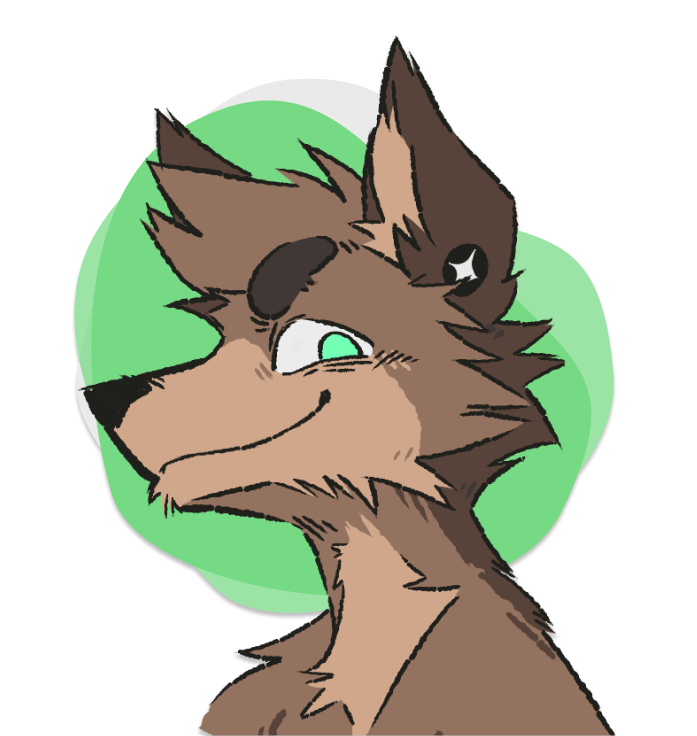
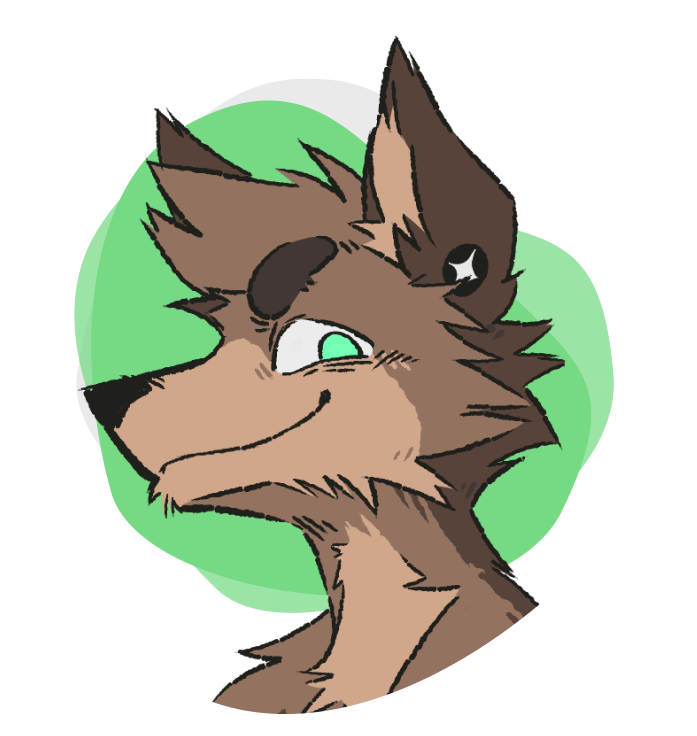
edited image mask

diff --git a/index.html b/index.html
@@ -15,7 +15,7 @@
         <meta property="og:description" content="coyotes.dev" />
         <meta name="viewport" content="width=device-width, initial-scale=1">
     </head>
-    
+
     <body>
         <div class="header">
             <h1 class="hoverThis">coyotes<span class="accent">.dev</span></h1>
@@ -46,14 +46,14 @@
             <div class="contacts">
                 <div class="entry">
                     <img src="img/mailicon.svg">
-                    <a href="mailto: taboler@coyotes.dev"><h2>taboler@coyotes.dev</h2></a>
+                    <a href="mailto: taboler@coyotes.dev"><h2 class="hoverThis">taboler@coyotes.dev</h2></a>
                 </div>
                 <div class="entry">
-                    <img src="img/linkedin.svg"><a href="https://www.linkedin.com/in/taboler/"><h2>linkedin.com/taboler</h2></a>
+                    <img src="img/linkedin.svg"><a href="https://www.linkedin.com/in/taboler/"><h2 class="hoverThis">linkedin.com/taboler</h2></a>
                 </div>
                 <div class="entry">
                     <img src="img/github.svg">
-                    <a href="https://github.com/lastCoyotes"><h2>lastCoyotes</h2></a>
+                    <a href="https://github.com/lastCoyotes"><h2 class="hoverThis">lastCoyotes</h2></a>
                 </div>
             </div>
         </div>

diff --git a/portfoliostyle.css b/portfoliostyle.css
@@ -70,17 +70,17 @@ p {
 
 .header {
 /* Auto layout */
-display: flex;
-flex-direction: row;
-justify-content: space-between;
-align-items: center;
-padding: 0px 120px;
-gap: 128px;
+    display: flex;
+    flex-direction: row;
+    justify-content: space-between;
+    align-items: center;
+    padding: 0px 120px;
+    gap: 128px;
 
-/*width: 100%;*/
-height: 64px;
+    /*width: 100%;*/
+    height: 64px;
 
-background: #1B1B1B;
+    background: #1B1B1B;
 }
 
 .menu {
